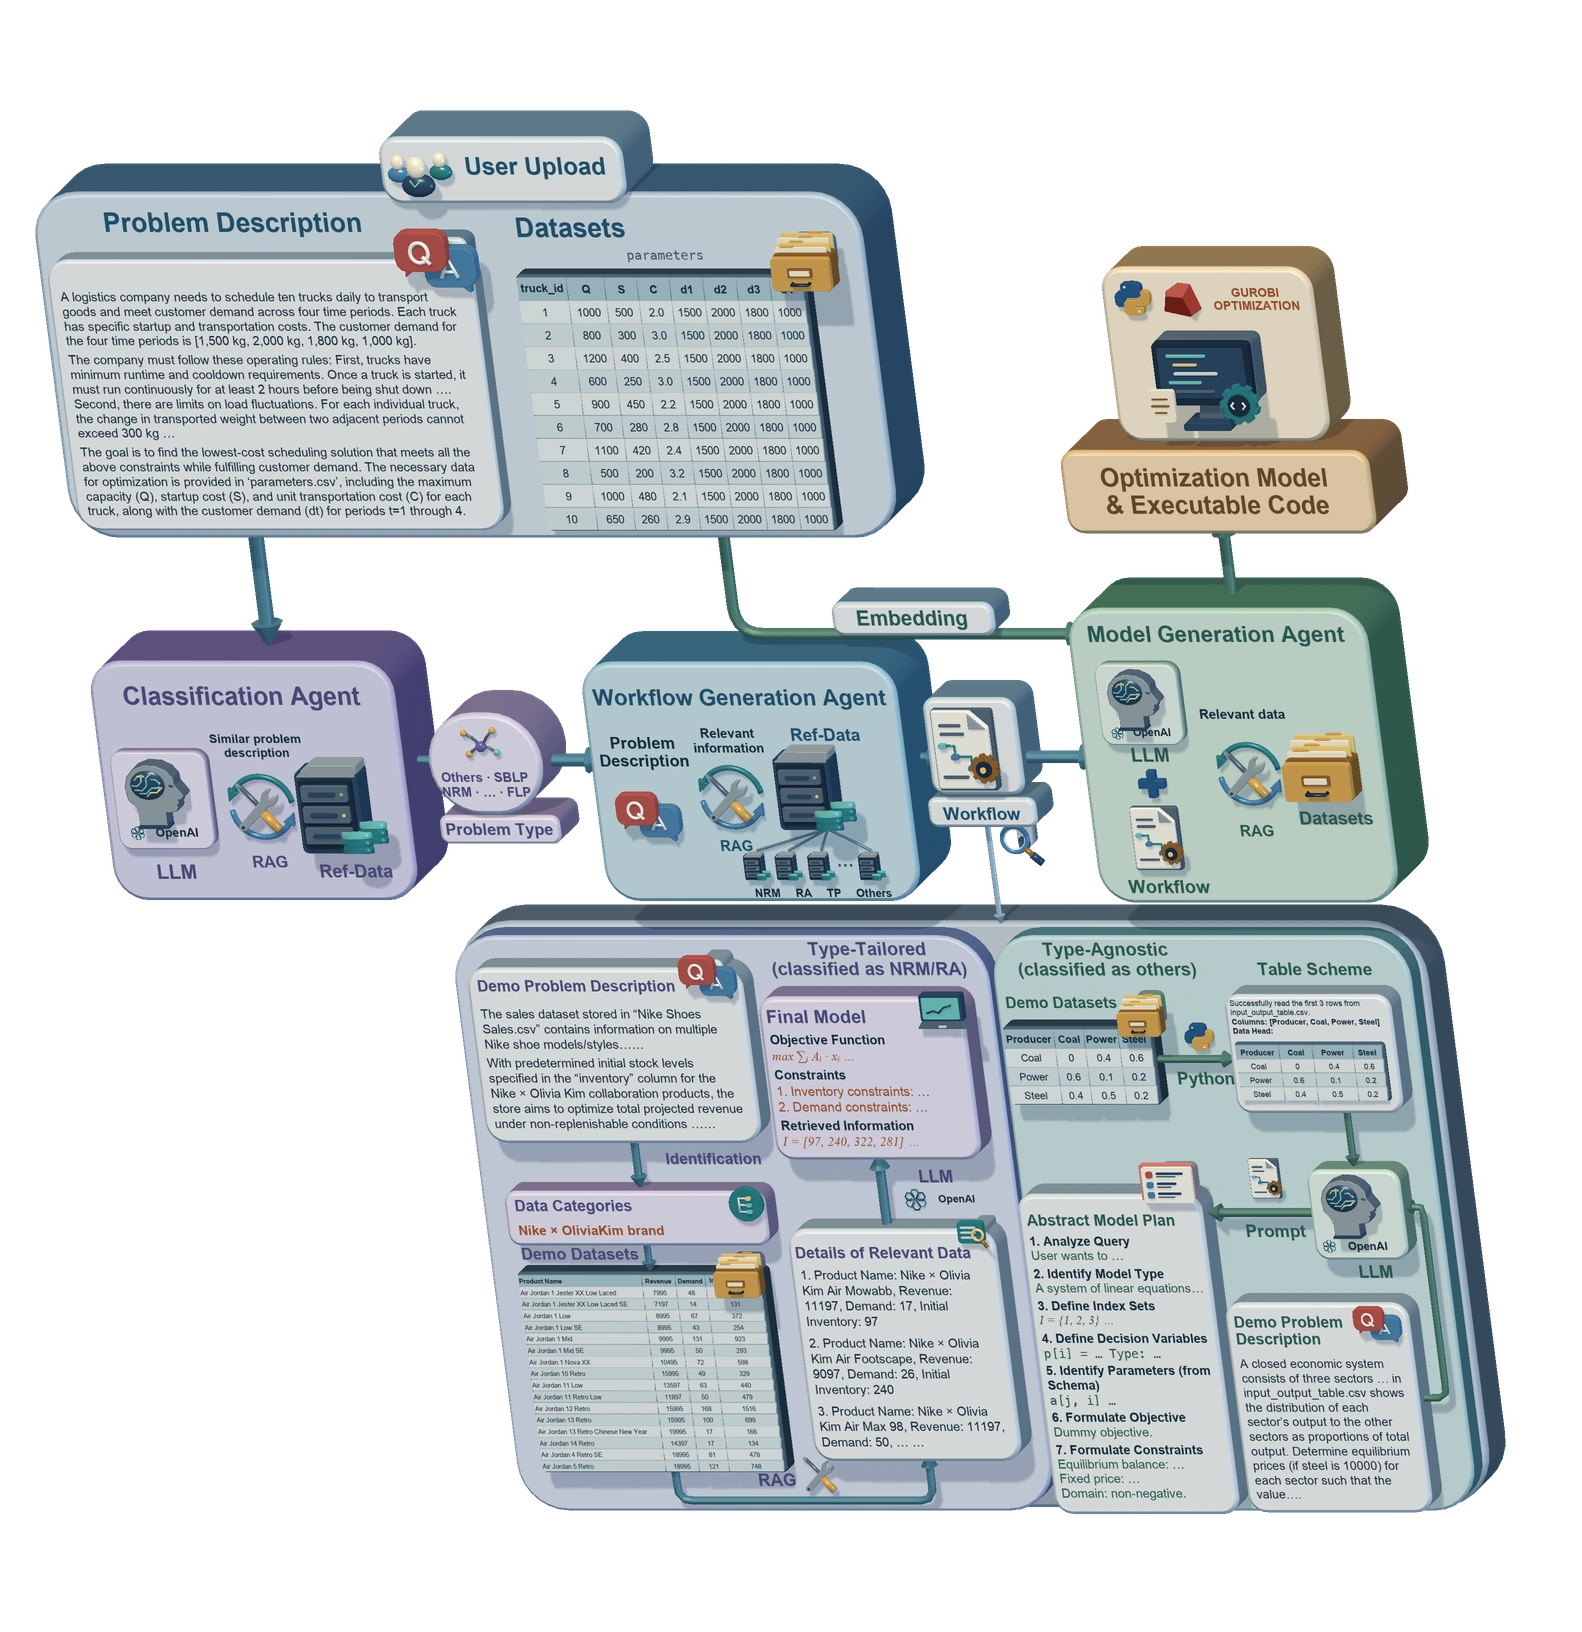
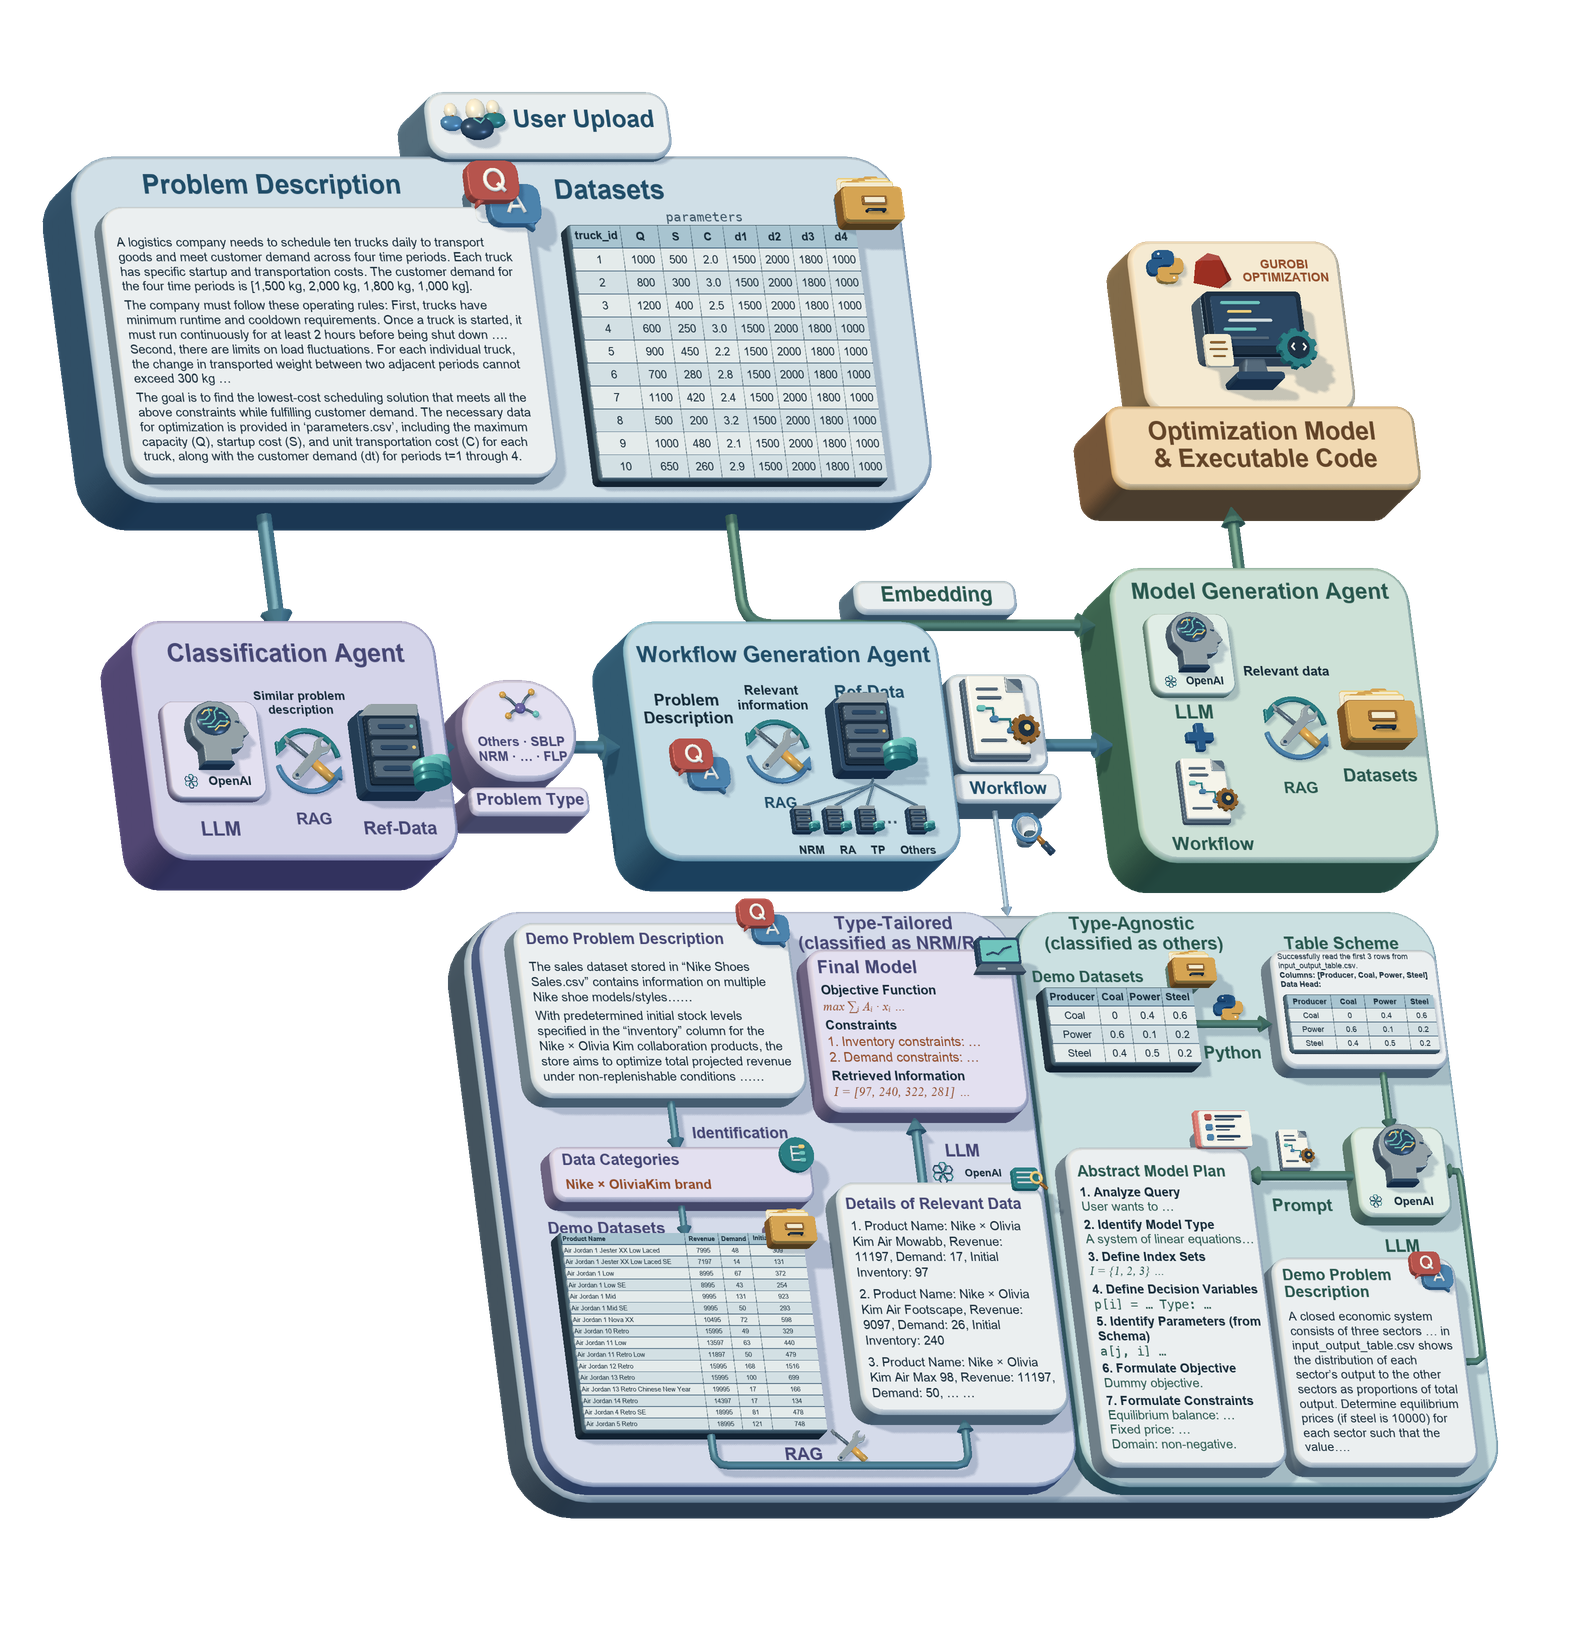
View the paper framework from the lower left

diff --git a/lean-llm-opt/index.html b/lean-llm-opt/index.html
@@ -25,7 +25,7 @@
   <link rel="stylesheet" href="assets/redesign.css?v=vertical-side-20261104-1">
   <link rel="stylesheet" href="assets/paper-figure.css?v=sculpture-20261105-1">
   <script type="module" src="assets/app.js?v=paper-figure-20261105-1"></script>
-  <script type="module" src="assets/paper-figure.js?v=sculpture-20261105-1"></script>
+  <script type="module" src="assets/paper-figure.js?v=lower-left-20261105-1"></script>
 </head>
 <body>
   <a class="skip-link" href="#main" data-zh="跳转到正文" data-en="Skip to content">跳转到正文</a>
@@ -70,7 +70,7 @@
           </select></label>
           <div class="paper-zoom-controls" role="group" aria-label="取景" data-zh-aria="取景" data-en-aria="Camera tools"><button type="button" data-paper-action="pan" aria-controls="paper-viewport" aria-pressed="false" data-zh="平移" data-en="Pan">平移</button><button type="button" data-paper-action="zoom-out" aria-controls="paper-viewport" aria-label="缩小" data-zh-aria="缩小" data-en-aria="Zoom out" title="缩小" data-zh-title="缩小" data-en-title="Zoom out">−</button><button type="button" data-paper-action="zoom-in" aria-controls="paper-viewport" aria-label="放大" data-zh-aria="放大" data-en-aria="Zoom in" title="放大" data-zh-title="放大" data-en-title="Zoom in">＋</button><button type="button" data-paper-action="reset" aria-controls="paper-viewport" data-zh="复位" data-en="Reset">复位</button></div>
         </div>
-        <div id="paper-viewport" class="paper-viewport" tabindex="0" role="img" aria-label="论文图 3。用户上传问题和数据，经分类、工作流生成和模型生成智能体得到数学模型与代码。下方放大图展示类型定制与通用工作流。" data-zh-aria="论文图 3。用户上传问题和数据，经分类、工作流生成和模型生成智能体得到数学模型与代码。下方放大图展示类型定制与通用工作流。" data-en-aria="Paper Figure 3. Uploaded problems and datasets pass through classification, workflow generation and model generation to produce a formulation and code. The inset shows type-tailored and type-agnostic workflows."><img class="paper-fallback paper-spatial" src="assets/paper-figure/spatial.webp" alt="" lang="en" width="1582" height="1632" draggable="false" decoding="async" fetchpriority="high"><img class="paper-fallback paper-front" src="assets/paper-figure/front.webp" width="1582" height="1632" alt="" draggable="false" decoding="async" loading="lazy"></div>
+        <div id="paper-viewport" class="paper-viewport" tabindex="0" role="img" aria-label="论文图 3。用户上传问题和数据，经分类、工作流生成和模型生成智能体得到数学模型与代码。下方放大图展示类型定制与通用工作流。" data-zh-aria="论文图 3。用户上传问题和数据，经分类、工作流生成和模型生成智能体得到数学模型与代码。下方放大图展示类型定制与通用工作流。" data-en-aria="Paper Figure 3. Uploaded problems and datasets pass through classification, workflow generation and model generation to produce a formulation and code. The inset shows type-tailored and type-agnostic workflows."><img class="paper-fallback paper-spatial" src="assets/paper-figure/spatial.webp?v=lower-left-20261105-1" alt="" lang="en" width="1582" height="1632" draggable="false" decoding="async" fetchpriority="high"><img class="paper-fallback paper-front" src="assets/paper-figure/front.webp" width="1582" height="1632" alt="" draggable="false" decoding="async" loading="lazy"></div>
         <div class="paper-figure-footer"><a href="https://creativecommons.org/licenses/by-nc-sa/4.0/" target="_blank" rel="license noopener">Liang et al. · CC BY-NC-SA 4.0</a><span class="paper-rotate-hint" data-zh="拖动旋转 · 点击模块查看局部" data-en="Drag to rotate · Select a module to inspect">拖动旋转 · 点击模块查看局部</span><a href="assets/paper-figure/figure3.webp" target="_blank" rel="noopener" data-zh="查看原图 ↗" data-en="Open original ↗">查看原图 ↗</a></div>
       </figure>
       <div class="hero-bottom wrap"><a href="#architecture" class="scroll-invitation"><i></i><span data-zh="滚动缩放与移动视角" data-en="SCROLL TO ZOOM AND MOVE THE VIEW">滚动缩放与移动视角</span></a><a href="https://papers.ssrn.com/sol3/papers.cfm?abstract_id=5329027" target="_blank" rel="noopener" class="mono" data-zh="研究论文 ↗" data-en="READ THE PAPER ↗">研究论文 ↗</a></div>

diff --git a/lean-llm-opt/assets/paper-figure.js b/lean-llm-opt/assets/paper-figure.js
@@ -3,7 +3,7 @@ import { GLTFLoader } from './vendor/three/GLTFLoader.js';
 import { buildDiagramPlates, iconPlacements } from './paper-solids.js';
 
 export const PAPER_SIZE = {width: 1582, height: 1632};
-export const PAPER_OVERVIEW = {yaw: -.37, pitch: .34};
+export const PAPER_OVERVIEW = {yaw: .37, pitch: -.34};
 const iconURL = new URL('./paper-figure/icons.glb', import.meta.url);
 const printURL = new URL('./paper-figure/print.webp', import.meta.url);
 const clamp = THREE.MathUtils.clamp;
